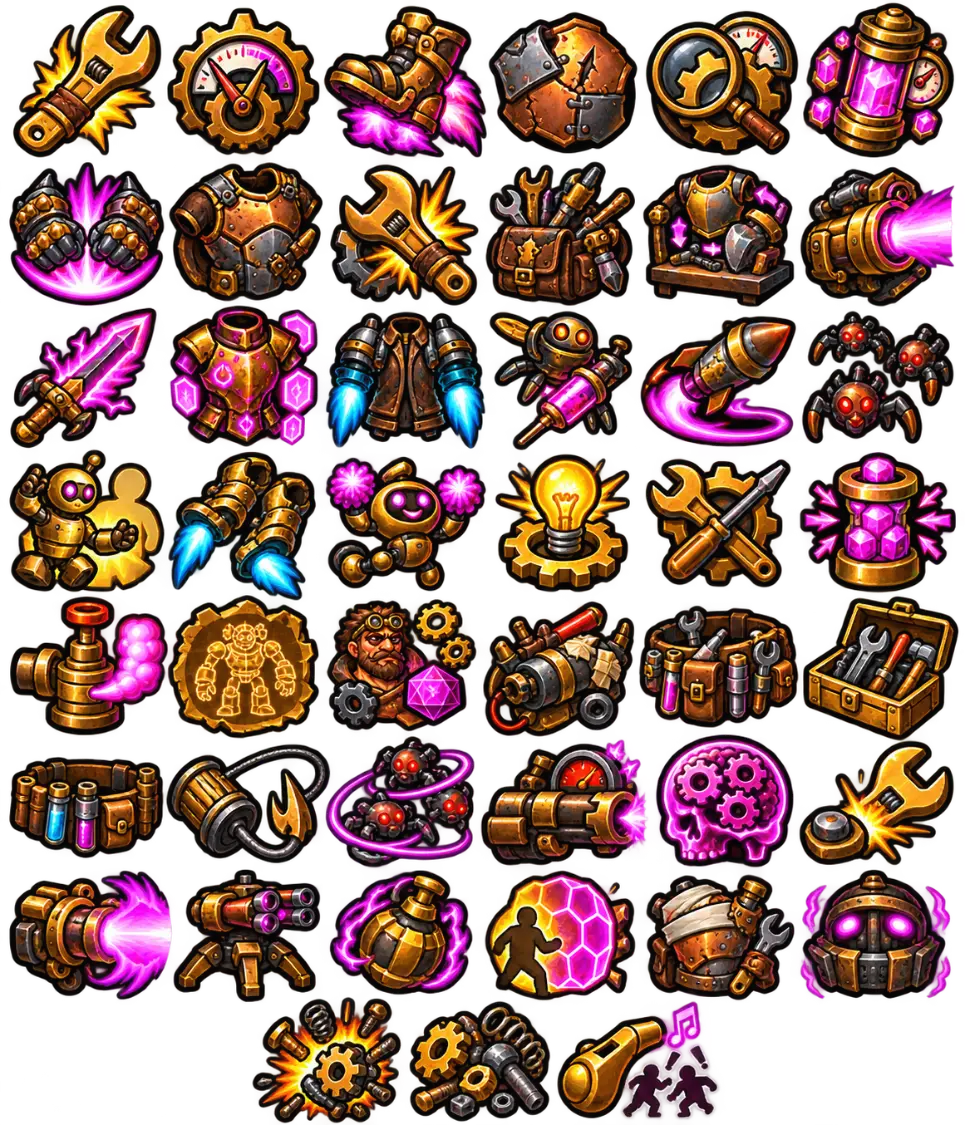
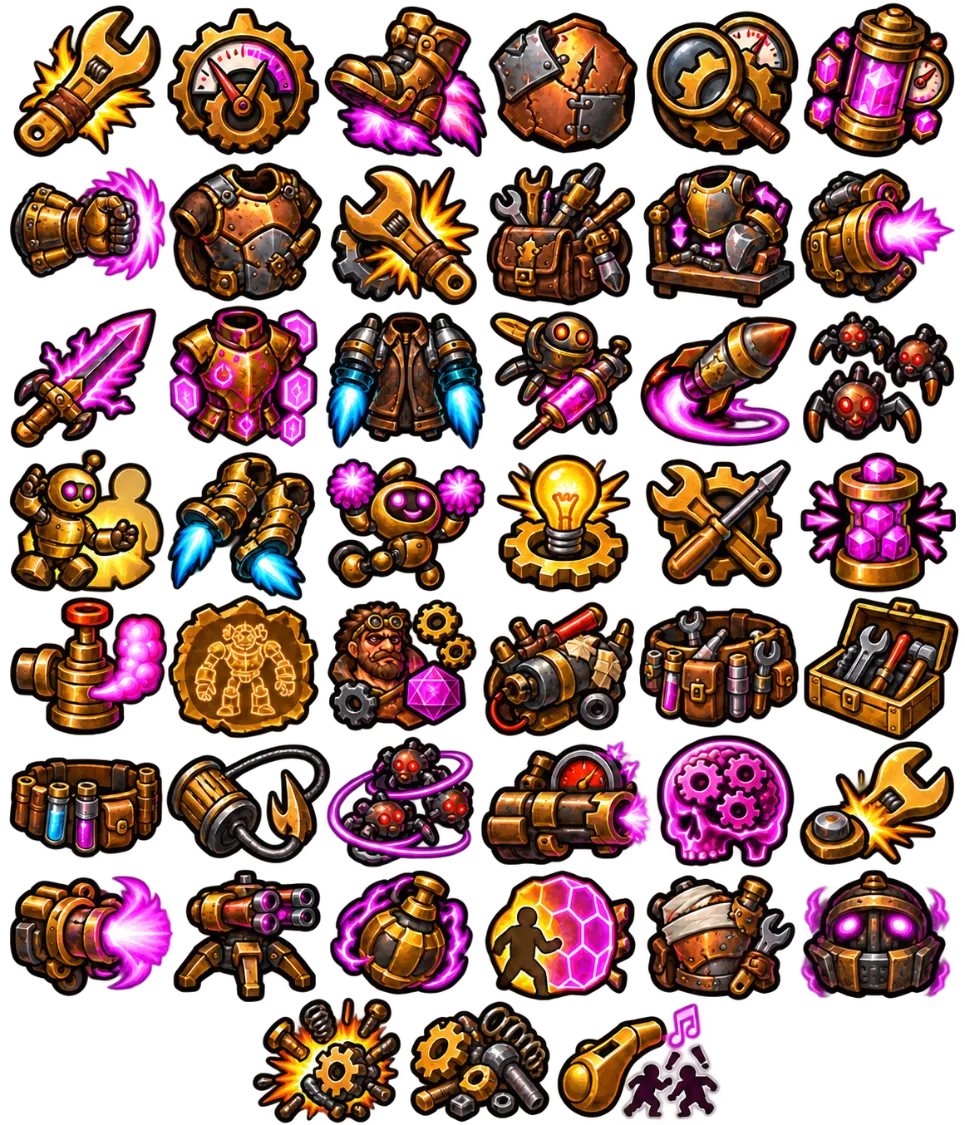
v0.853 : Découpe de la planche du Mécaniste
Onglet Icônes : la lecture de grille ne s'embrouille plus quand une ligne est décalée, comme les 3 icônes centrées sous la planche du Mécaniste ; ces lignes gardent leurs propres colonnes, les autres planches se découpent exactement comme avant. La planche MECANISTE est remplacée par la nouvelle : 45 icônes.

Claude-Session: https://claude.ai/code/session_01PF75UrdhWECBCA3fXu5RYa

Changed region(s): [[0.0, 0.0, 0.9948, 1.0]]

diff --git a/index.html b/index.html
@@ -3,7 +3,7 @@
 <style>
 /* Killam Bold, fournie par Valentin, pour les chiffres des caractéristiques. Sous-ensemble
    latin en WOFF2 : 48 Ko au lieu des 188 Ko du TTF d'origine, qui reste dans fonts/. */
-@font-face{font-family:'Killam';src:url('./fonts/killam-bold.woff2?v=0.852') format('woff2');
+@font-face{font-family:'Killam';src:url('./fonts/killam-bold.woff2?v=0.853') format('woff2');
  font-weight:700;font-style:normal;font-display:swap}
 
 /* Deux palettes, un seul jeu de règles : tout le décor passe par ces jetons, si bien
@@ -137,8 +137,8 @@ body.sombre{color-scheme:dark;--bg:#10171a;--panel:#182226;--panel-2:#131d21;--f
 .sheet.a-logo .sheet-head h1{flex:0 1 auto;min-width:0;line-height:39px;white-space:nowrap;overflow:hidden;text-overflow:ellipsis}/* La fiche prend la hauteur de ce qu'elle montre — talents et équipement dépliés compris — et le journal, calé dessous, prend tout le reste. */#sheet{min-height:0}.j-entry{font-size:14px;line-height:1.45;color:var(--ink);white-space:pre-line}/* La flèche en vol : un trait sombre à pointe claire, tourné vers sa cible. *//* Le souffle d'un tir : une rafale claire et étirée, deux filets d'air par-dessus. *//* Les coups, lisibles et toujours les mêmes : au contact, un trait de balayage fend l'air sur la cible, puis un choc — un anneau qui s'élargit ; à distance, un projectile file en ligne droite du tireur à la cible, puis le même choc. Blanc cerné de sombre : visible sur toute carte. Chaque geste dure le même temps, au même rythme. */.vfx{position:absolute;pointer-events:none;z-index:5;will-change:transform,opacity;transform:translate(-50%,-50%)}.vfx svg{display:block;width:100%;height:100%;overflow:visible}.vfx-piege svg{filter:drop-shadow(0 0 6px #ff8a2acc)}.vfx-piege .souffle{fill:#ff7a1f;fill-opacity:.6;stroke:#ffc35a;stroke-width:4}.vfx-piege .coeur{fill:#fff4cf}
 .vfx-choc .onde{fill:none;stroke:#fff6dc;stroke-width:7}.vfx-choc svg{filter:drop-shadow(0 0 1px #000d) drop-shadow(0 0 5px #ffc85acc)}.vfx-etincelles .gerbe{stroke:#fff6dc;stroke-width:4.5;stroke-linecap:round}.vfx-etincelles svg{filter:drop-shadow(0 0 1px #000d) drop-shadow(0 0 4px #ffc85acc)}.vfx-fleche{transform:none}.vfx-fleche .hampe-ombre{stroke:#000a;stroke-width:5;fill:none}.vfx-fleche .hampe{stroke:#f1e4c8;stroke-width:2.6;fill:none}.vfx-fleche .plume{fill:#b8452e;stroke:#0009;stroke-width:1}.vfx-fleche .pointe{fill:#e9eef2;stroke:#000b;stroke-width:1.2}.vfx-fleche svg{filter:drop-shadow(0 0 3px #fff8)}/* Le balayage d'un coup au contact : un arc d'air, clair au bord, qui tourne autour de l'attaquant. *//* La parole : le socle de qui parle, puis ses mots. */.j-chat{display:flex;align-items:flex-start;gap:8px;border:1px solid color-mix(in srgb,var(--ink) 14%,transparent);background:color-mix(in srgb,var(--ink) 4%,transparent);border-radius:7px;padding:4px 8px;margin:2px 0}.j-avatar{flex:none;width:24px;height:24px;border-radius:50%;overflow:hidden;background:#d9cfbd;color:#2a2118;display:grid;place-items:center;font:700 12px 'Killam',Georgia,serif}.j-avatar img{width:100%;height:100%;object-fit:cover;display:block}.j-avatar.mj{background:var(--accent);color:#fff}.j-corps{min-width:0}.j-texte{white-space:pre-wrap;overflow-wrap:anywhere}.journal-vider{margin-left:auto;font:600 11px system-ui;letter-spacing:1px;text-transform:uppercase;padding:3px 9px;border-radius:6px;border:1px solid var(--line);background:transparent;color:var(--muted);cursor:pointer}.journal-vider:hover{color:var(--ink);border-color:var(--ink)}.journal-session+.journal-vider{margin-left:6px}.journal-title:has(.journal-session:not([hidden])){flex-wrap:wrap;white-space:nowrap;row-gap:6px}.journal-title .journal-vider{white-space:nowrap;flex:none}.journal-title .journal-session{letter-spacing:.5px}.journal-chat{display:flex;gap:6px;margin-top:8px;flex:none}.journal-chat input{flex:1;min-width:0;font:14px system-ui;padding:7px 10px;border:1px solid var(--line);border-radius:8px;background:var(--panel);color:var(--ink)}.journal-chat button{flex:none;padding:6px 11px;border-radius:8px;border:1px solid var(--line);background:transparent;color:var(--accent);cursor:pointer;font-size:14px}/* Un cartouche léger, de la couleur de l'action : bleu pour un coup, violet pour un talent, une analyse ou un orbe, vert pour un soin, rouge pour une perte, ambre pour un état, or pour une révélation, brun pour la carte. */.j-entry.ton{--ton:#3f7bc0;border:1px solid color-mix(in srgb,var(--ton) 30%,transparent);background:color-mix(in srgb,var(--ton) 7%,transparent);border-radius:7px;padding:3px 8px;margin:2px 0}.j-entry.ton-attaque{--ton:#3f7bc0}.j-entry.ton-talent{--ton:#8a63c9}.j-entry.ton-competence{--ton:#2f7d45}.j-entry.ton-soin{--ton:#2f8a63}.j-entry.ton-degats{--ton:#b8483a}.j-entry.ton-etat{--ton:#a2691f}.j-entry.ton-reveal{--ton:#9d7b1e}.j-entry.ton-carte{--ton:#8a6d3b}.ton-butin{--ton:#a8832c}.j-turn{display:flex;align-items:center;gap:10px;font-size:11px;letter-spacing:3px;text-transform:uppercase;color:var(--muted);margin:5px 0 1px}.j-turn::before,.j-turn::after{content:"";flex:1;height:1px;background:var(--line)}.j-name{font-weight:700}.j-key{font-weight:700}.j-num{font-weight:800;color:var(--ink)}.j-num.j-perte{color:#b4553a}.j-num.j-tresor{color:#9d7b1e}.j-num.j-pv{color:#3d7f4b}.j-num.j-ok{color:#2e8b3e}.j-num.j-ko{color:#b8402d}.j-dice{opacity:.7}/* La ligne d'attaque : le logo de l'arme entre les deux noms, les dégâts cliquables, le détail des dés dessous. */.j-attaque .logo-equip{width:20px;height:20px;vertical-align:-5px;margin:0 1px;filter:drop-shadow(0 1px 1px #0006)}.j-degats{font-weight:800;color:#b4553a}.j-degats.cliquable{cursor:pointer;border-bottom:1px dashed currentColor}.j-degats.cliquable:hover,.j-degats.ouvert{color:#d0644a}.j-detail{display:flex;flex-wrap:wrap;gap:5px;align-items:center;margin-top:6px}.j-de{display:grid;place-items:center;width:24px;height:24px;border-radius:6px;font:800 12px/1 system-ui;color:#1b2124;background-color:var(--die);background-image:linear-gradient(158deg,#ffffff66,#ffffff00 42%,#0000002e);box-shadow:inset 0 1px 0 #ffffff8c,inset 0 -2px 3px #00000026,0 2px 4px #0000005e}.j-de.dark{color:#f4f6f2}.j-de.barre{opacity:.35;filter:grayscale(1);box-shadow:none}.j-de.relance{margin-left:8px}.j-plus{font:600 12px system-ui;color:var(--muted)}.j-plus.total{font-weight:800;color:var(--ink)}.j-badge{display:inline-block;background:#8d3b32;color:#ffe6df;border-radius:5px;padding:1px 7px;font-weight:700;font-size:12px}
 /* Le socle qui arrive du réseau glisse jusqu'à sa place. */.token.glisse{transition:left .18s linear,top .18s linear}/* L'orbe en vol : une bille lumineuse de la couleur de ses dés. */.orbe-vol{position:absolute;will-change:transform,opacity;border-radius:50%;transform:translate(-50%,-50%);pointer-events:none;z-index:5;background:radial-gradient(circle at 35% 35%,#fff9,var(--orbe) 55%,transparent 72%);box-shadow:0 0 14px 5px var(--orbe),0 0 44px 16px color-mix(in srgb,var(--orbe) 55%,transparent)}/* L'orbe de feu : un cœur blanc, une écorce d'ambre et une flamme qui bat autour. Seuls
-   transform et opacity s'animent — le compositeur mène le vol sans le fil principal. */.orbe-vol.feu{background:radial-gradient(circle at 38% 34%,#fff6e0 0 16%,#ffce5e 36%,var(--orbe) 62%,transparent 74%);box-shadow:0 0 16px 6px var(--orbe),0 0 46px 18px #ff5a1e5c}.orbe-vol.feu::after{content:'';position:absolute;inset:-22%;border-radius:50%;pointer-events:none;background:radial-gradient(circle at 50% 66%,#ffb14ab3,#ff5a1e4d 45%,transparent 72%);animation:flamme .26s ease-in-out infinite alternate}@keyframes flamme{from{transform:scale(.86) rotate(-9deg);opacity:.7}to{transform:scale(1.2) rotate(10deg);opacity:1}}@media(prefers-reduced-motion:reduce){.orbe-vol.feu::after{animation:none}}/* Un envoi refusé se voit sur le bouton de la table. */#open-live[data-souci]{color:#b8483a;border-color:#b8483a}</style><link rel="stylesheet" href="./editor.css?v=0.852"></head><body><div id="busy-cover">Chargement de la partie enregistrée…</div>
-<header><div class="brand"><span class="brand-ligne"><span class="brand-nom">Amertüme</span><span class="ver">v0.852</span></span><span class="brand-online">ONLINE</span></div><div class="view-controls"><label for="view">Vue</label><select id="view" autocomplete="off"><option value="mj">Maître du jeu</option><option value="player">Joueur</option></select><label id="owner-label" for="owner" hidden>Mon aventurier</label><select id="owner" hidden><option value="0">Éla</option><option value="1">Kaël</option></select></div></header>
+   transform et opacity s'animent — le compositeur mène le vol sans le fil principal. */.orbe-vol.feu{background:radial-gradient(circle at 38% 34%,#fff6e0 0 16%,#ffce5e 36%,var(--orbe) 62%,transparent 74%);box-shadow:0 0 16px 6px var(--orbe),0 0 46px 18px #ff5a1e5c}.orbe-vol.feu::after{content:'';position:absolute;inset:-22%;border-radius:50%;pointer-events:none;background:radial-gradient(circle at 50% 66%,#ffb14ab3,#ff5a1e4d 45%,transparent 72%);animation:flamme .26s ease-in-out infinite alternate}@keyframes flamme{from{transform:scale(.86) rotate(-9deg);opacity:.7}to{transform:scale(1.2) rotate(10deg);opacity:1}}@media(prefers-reduced-motion:reduce){.orbe-vol.feu::after{animation:none}}/* Un envoi refusé se voit sur le bouton de la table. */#open-live[data-souci]{color:#b8483a;border-color:#b8483a}</style><link rel="stylesheet" href="./editor.css?v=0.853"></head><body><div id="busy-cover">Chargement de la partie enregistrée…</div>
+<header><div class="brand"><span class="brand-ligne"><span class="brand-nom">Amertüme</span><span class="ver">v0.853</span></span><span class="brand-online">ONLINE</span></div><div class="view-controls"><label for="view">Vue</label><select id="view" autocomplete="off"><option value="mj">Maître du jeu</option><option value="player">Joueur</option></select><label id="owner-label" for="owner" hidden>Mon aventurier</label><select id="owner" hidden><option value="0">Éla</option><option value="1">Kaël</option></select></div></header>
 <div class="intro" hidden><h1>Les ruines du passage</h1></div>
 <main class="layout"><aside class="stack left"><section class="panel"><div class="turn-head"><div class="eyebrow" id="titre-tour">Tour de combat</div><div class="turn" id="round">01</div></div><div id="bloc-activation" hidden><h2>Activation</h2><div class="checks"><label><input type="checkbox" id="action"> Action</label><label><input type="checkbox" id="move"> Mvt / Analyse</label><label><input type="checkbox" id="item"> Objet</label></div><div class="divider"></div></div><div class="turn-actions"><button class="full" id="next">Tour suivant →</button><button id="reset-round" title="Revenir au tour 1 : activations, cibles, états et analyses remis à zéro, adversaires à nouveau inconnus" aria-label="Réinitialiser le tour de combat">↺</button></div><div class="side-actions"><button id="start-combat" class="primary" hidden>⚔ Début du combat</button><button id="end-combat" hidden>Fin du combat</button></div></section><section class="panel"><h2>COMBATTANTS</h2><div id="actors"></div><button type="button" class="ajout-camp" id="new-hero" title="Ajouter un aventurier à la scène" aria-label="Ajouter un aventurier à la scène" hidden>+</button><button type="button" class="ajout-camp" id="new-monster" title="Ajouter un adversaire à la scène" aria-label="Ajouter un adversaire à la scène" hidden>+</button></section><section class="panel pv-panel" id="pv-panel" hidden><div class="eyebrow">Points de vie</div><div class="hp-buttons" id="hp-buttons"></div><button type="button" id="sortir-combat" class="sortir-combat" hidden></button></section></aside>
 <div class="stack"><section class="panel map-panel"><div class="mapbar"><div class="mapbar-h1"><strong id="carte-titre">CARTE TACTIQUE</strong><button class="icon-btn toggle-portees" id="portees">◎</button><button class="icon-btn toggle-portees" id="fouilles-vue">🔍</button><button class="icon-btn toggle-portees" id="distances-vue">📏</button><button class="icon-btn toggle-portees" id="coffres-bulles" hidden>🧰</button><button class="icon-btn toggle-portees" id="redim-panneaux" type="button" title="Redimensionner les panneaux" aria-label="Redimensionner les panneaux" aria-pressed="false">⇔</button><div class="zoom-bar"><button id="zoom-out" aria-label="Dézoomer">−</button><span id="zoom-label">100 %</span><button id="zoom-in" aria-label="Zoomer">+</button><button id="zoom-reset" title="Ajuster la carte au cadre">Ajuster</button><button id="zoom-centre" title="Centrer sur le token sélectionné" aria-label="Centrer sur le token sélectionné">Centrer</button><button id="zoom-zone" title="Cadrer la zone du token sélectionné" aria-label="Cadrer la zone du token sélectionné">Zone</button></div></div><div class="mapbar-h2" hidden><label class="file"><button id="upload">Importer une carte</button><input class="sr" type="file" id="mapfile" accept="image/png,image/jpeg,image/webp"></label><button class="icon-btn" id="reset-map" title="Retirer la carte de fond" aria-label="Retirer la carte de fond">🗑</button></div></div><div class="map" id="map" aria-label="Carte tactique. Déplacez les tokens par glissement ou avec les flèches du clavier."><div id="map-view"><svg class="plan" viewBox="0 0 800 480" preserveAspectRatio="none" aria-hidden="true"><g class="walls" fill="#172326" stroke="#57635c" stroke-width="3"></g><g fill="#9da797" font-family="system-ui" font-size="12" letter-spacing="4"><text x="305" y="130">COUR INTÉRIEURE</text><text x="318" y="462">ENTRÉE SUD</text></g></svg><svg id="map-shapes" aria-hidden="true"></svg><svg id="map-coffres" viewBox="0 0 100 100" preserveAspectRatio="none" aria-hidden="true"></svg><canvas id="fog" aria-hidden="true"></canvas><svg id="map-doors" viewBox="0 0 100 100" preserveAspectRatio="none" aria-hidden="true"></svg><svg id="murs-elem" viewBox="0 0 100 100" preserveAspectRatio="none" aria-hidden="true"></svg><div id="contact-ring" hidden></div><svg id="aim" aria-hidden="true"><defs><marker id="shot-ok" markerUnits="userSpaceOnUse" viewBox="0 0 19 17" markerWidth="19" markerHeight="17" refX="16" refY="8.5" orient="auto"><path d="M0 .9 19 8.5 0 16.1 5.6 8.5Z" fill="#3f7bc0"/></marker><marker id="shot-no" markerUnits="userSpaceOnUse" viewBox="0 0 19 17" markerWidth="19" markerHeight="17" refX="16" refY="8.5" orient="auto"><path d="M0 .9 19 8.5 0 16.1 5.6 8.5Z" fill="#e0483c"/></marker><marker id="shot-done" markerUnits="userSpaceOnUse" viewBox="0 0 19 17" markerWidth="19" markerHeight="17" refX="16" refY="8.5" orient="auto"><path d="M0 .9 19 8.5 0 16.1 5.6 8.5Z" fill="#8b969b"/></marker><marker id="shot-mvt" markerUnits="userSpaceOnUse" viewBox="0 0 19 17" markerWidth="19" markerHeight="17" refX="16" refY="8.5" orient="auto"><path d="M0 .9 19 8.5 0 16.1 5.6 8.5Z" fill="#cf9152"/></marker></defs><path id="aim-mouvement" class="aim-fleche mvt" marker-end="url(#shot-mvt)"/><path id="aim-arrow" class="aim-fleche"/></svg><div id="marquee" hidden aria-hidden="true"></div><div id="floaters" aria-hidden="true"></div></div><div id="barre-mouvement" hidden aria-hidden="true"></div></div></section>
@@ -146,8 +146,8 @@ body.sombre{color-scheme:dark;--bg:#10171a;--panel:#182226;--panel-2:#131d21;--f
 <aside class="stack right"><section class="panel sheet" id="sheet"><div class="sheet-head"><span class="avatar sheet-logo" id="sheet-logo" hidden></span><h1 id="name"></h1><span class="sheet-class" id="kind"></span><button type="button" class="sheet-class" id="pnj-camp" hidden></button></div><p class="muted" id="class"></p><div class="chips" id="sheet-chips"></div><div class="stat-row" id="stats"></div><div class="lifebar big" id="hpbar"><span class="lifebar-fill" id="hpfill"></span><span class="lifebar-text" id="hp"></span></div><div class="comp-ronds" id="skills" hidden></div><details class="bloc-replie" id="bloc-talents" open><summary><span class="bloc-titre">Talents</span><span class="compte" id="talents-compte"></span></summary><div id="sheet-talents"></div></details><div class="bloc-fixe" id="bloc-gear"><div class="bloc-tete"><span class="bloc-titre">Objets</span><span class="compte" id="gear-compte"></span></div><div id="gear"></div></div><div class="divider" hidden></div></section><section class="panel"><h2 class="journal-title"><span aria-hidden="true">📜</span> Journal de combat<button type="button" id="journal-session" class="journal-vider journal-session" hidden title="Nouvelle session : le journal repart de zéro, ici et chez les joueurs, et rien d’avant ne revient au chargement">Nouvelle session</button><button type="button" id="journal-vider" class="journal-vider" hidden title="Vider le journal, ici et chez les joueurs de la table">Vider</button></h2><ol class="journal" id="journal" aria-live="polite"></ol><form id="journal-chat" class="journal-chat" autocomplete="off"><input id="journal-texte" maxlength="300" placeholder="Dire quelque chose…" aria-label="Écrire au journal"><button type="submit" title="Envoyer">➤</button></form></section></aside></main>
 <div id="state-menu" role="menu" aria-label="États" hidden></div>
 
-<script src="./polygon-clipping.umd.min.js?v=0.852"></script>
-<script src="./combat.js?v=0.852"></script>
+<script src="./polygon-clipping.umd.min.js?v=0.853"></script>
+<script src="./combat.js?v=0.853"></script>
 <script>
 'use strict';
 const $=id=>document.getElementById(id);
@@ -3683,7 +3683,7 @@ function saveChecks(){const a=actors[selected];if(!a)return;
 const SKILL_TINTS=['47,138,99','168,105,31','122,92,184','157,123,30','176,88,54','101,120,111','53,119,184','44,140,133'];
 const STAT_TINTS={vie:'122,92,184',endu:'44,140,133',pv:'47,122,91',def:'96,110,118',dmg:'180,72,58',xp:'157,123,30',pa:'63,143,224',pm:'207,145,82'};
 const TYPE_NOMS={standard:'Standard',solitaire:'Solitaire',alpha:'Élite',boss:'Boss'};
-const IMG_V='0.852';
+const IMG_V='0.853';
 function imgUrl(nom){return './img/'+String(nom).split('/').map(encodeURIComponent).join('/')+'?v='+IMG_V}
 /* Les états et leur jeton, tels qu'ils sont peints sur la table. « Aucun » n'en a pas —
    c'est l'absence d'état — ni « Coma », que la barre de vie dit déjà, ni « Affaibli »,
@@ -4950,5 +4950,5 @@ $('portees').onclick=()=>{porteesOn=!porteesOn;
 majPortees();
 window.addEventListener('resize',()=>{updateRing();showAim();renderCombat()});
 render();
-</script><script src="./catalog.js?v=0.852"></script><script src="./planches-calcul.js?v=0.852"></script><script src="./planches.js?v=0.852"></script><script src="./actualites.js?v=0.852"></script><script src="./editor.js?v=0.852"></script><script src="./maps.js?v=0.852"></script><script src="./domaine.js?v=0.852"></script><script src="./campagnes.js?v=0.852"></script><script src="./firebase-config.js?v=0.852"></script><script src="./shared-data.js?v=0.852"></script><script src="./shared.js?v=0.852"></script>
-<script src="./live.js?v=0.852"></script></body></html>
+</script><script src="./catalog.js?v=0.853"></script><script src="./planches-calcul.js?v=0.853"></script><script src="./planches.js?v=0.853"></script><script src="./actualites.js?v=0.853"></script><script src="./editor.js?v=0.853"></script><script src="./maps.js?v=0.853"></script><script src="./domaine.js?v=0.853"></script><script src="./campagnes.js?v=0.853"></script><script src="./firebase-config.js?v=0.853"></script><script src="./shared-data.js?v=0.853"></script><script src="./shared.js?v=0.853"></script>
+<script src="./live.js?v=0.853"></script></body></html>

diff --git a/planches-calcul.js b/planches-calcul.js
@@ -48,7 +48,19 @@ function detecteGrille(al){const {W,H}=al,comps=proprietaires(al).objets.filter(
  const etalee=g=>g.some(x=>x.e>med*.9);
  if(etalee(gx)&&!etalee(gy))gx=parRang(vote,gy,cyk,cxk);
  else if(etalee(gy)&&!etalee(gx))gy=parRang(vote,gx,cxk,cyk);
- const cx=gx.map(x=>x.m),cy=gy.map(x=>x.m);
+ let cx=gx.map(x=>x.m);const cy=gy.map(x=>x.m);
+ /* v0.853 : une ligne qui ne tombe pas sur les colonnes des autres — trois icônes centrées sous une planche de six — ne
+    doit pas inventer des colonnes pour toute la planche. Les colonnes se lisent alors sur les lignes complètes, et la ligne
+    décalée garde les siennes : « bx » donne alors, ligne par ligne, ses bornes. */
+ const rangs=cy.map(()=>[]);vote.forEach(k=>{let i=0,d=Infinity;cy.forEach((m,j)=>{const e=Math.abs(cyk(k)-m);if(e<d){d=e;i=j}});rangs[i].push(cxk(k))});
+ const centres=rangs.map(r=>r.length?grappes(r,med*.45).map(g=>g.m):[]),compte=new Map();
+ centres.forEach(r=>{if(r.length)compte.set(r.length,(compte.get(r.length)||0)+1)});
+ const M=compte.size?[...compte.entries()].sort((a,b)=>b[1]-a[1]||b[0]-a[0])[0][0]:cx.length;
+ const aligne=(r,cols)=>r.every(x=>cols.some(c=>Math.abs(c-x)<=med*.45));
+ if(cx.length!==M||!centres.every(r=>aligne(r,cx))){const pleines=centres.filter(r=>r.length===M);
+  if(pleines.length){cx=Array.from({length:M},(_,i)=>pleines.reduce((t,r)=>t+r[i],0)/pleines.length);const commun=bornes(cx,W);
+   if(centres.every(r=>aligne(r,cx)))return {lignes:cy.length,colonnes:M,bx:commun,by:bornes(cy,H)};
+   return {lignes:cy.length,colonnes:M,bx:centres.map(r=>!r.length||aligne(r,cx)?commun:bornes(r,W)),by:bornes(cy,H)}}}
  return {lignes:cy.length,colonnes:cx.length,bx:bornes(cx,W),by:bornes(cy,H)}}
 // Une grille imposée : lignes et colonnes égales, sur l'étendue opaque de la planche.
 function grilleUniforme({W,H,A},lignes,colonnes){let x0=W,y0=H,x1=-1,y1=-1;
@@ -136,8 +148,9 @@ function erode({W},k,n,med,lab){const w=k.x1-k.x0+1,h=k.y1-k.y0+1,D=new Uint16Ar
    séparer, se partagent à la frontière des cases. Une case presque vide, au bout d'une dernière
    ligne incomplète, n'est pas une icône. */
 function casesDe(al,bx,by){const {W,H}=al,{objets,med}=proprietaires(al),cases=[],m=Math.max(4,med*.08);
- for(let r=0;r<by.length-1;r++)for(let c=0;c<bx.length-1;c++){
-  const X0=bx[c],X1=bx[c+1],Y0=by[r],Y1=by[r+1];
+ // Des bornes par ligne, quand une ligne a ses propres colonnes (v0.853).
+ for(let r=0;r<by.length-1;r++){const bxr=Array.isArray(bx[0])?bx[r]:bx;for(let c=0;c<bxr.length-1;c++){
+  const X0=bxr[c],X1=bxr[c+1],Y0=by[r],Y1=by[r+1];
   let x0=W,y0=H,x1=-1,y1=-1,n=0;
   const prend=(a,b,c,d,nb)=>{n+=nb;if(a<x0)x0=a;if(c>x1)x1=c;if(b<y0)y0=b;if(d>y1)y1=d};
   objets.forEach(o=>{if(o.absorbe)return;
@@ -153,7 +166,7 @@ function casesDe(al,bx,by){const {W,H}=al,{objets,med}=proprietaires(al),cases=[
     Math.max(o.x1,Math.min(o.hx1,o.x1+m)),Math.max(o.y1,Math.min(o.hy1,o.y1+m)),o.c)});
   if(x1<0||n<(X1-X0)*(Y1-Y0)*.02)continue;
   x0=Math.max(0,Math.floor(x0));y0=Math.max(0,Math.floor(y0));x1=Math.min(W-1,Math.ceil(x1));y1=Math.min(H-1,Math.ceil(y1));
-  cases.push([x0/W,y0/H,(x1-x0+1)/W,(y1-y0+1)/H])}
+  cases.push([x0/W,y0/H,(x1-x0+1)/W,(y1-y0+1)/H])}}
  return cases}
 /* Le cadre d'une icône peut mordre sur ses voisines : il ne garde que les pixels des icônes dont
    le centre y tombe, et efface le reste, halo et ombre des voisines compris. Deux icônes restées

diff --git a/actualites.js b/actualites.js
@@ -10,6 +10,7 @@ const ACTUALITES={resume:{jusqua:'0.773',lignes:[
 ]},
 versions:[
 /* versions */
+{"v":"0.853","d":"2026-10-16","t":"Découpe de la planche du Mécaniste"},
 {"v":"0.852","d":"2026-10-16","t":"Inventions du Mécaniste"},
 {"v":"0.851","d":"2026-10-16","t":"Plasma du Mécaniste"},
 {"v":"0.850","d":"2026-10-16","t":"Classe Mécaniste"},
